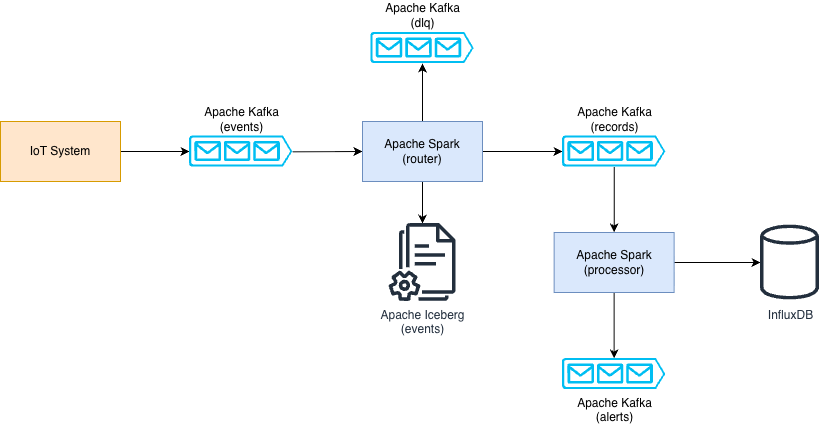
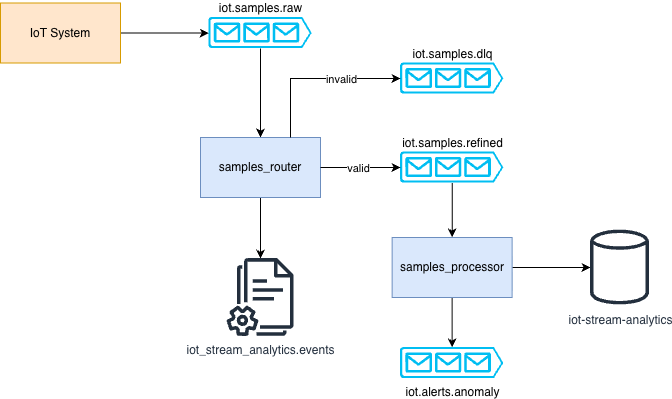
Minor changes

diff --git a/src/iot_stream_analytics/samples_processor.py b/src/iot_stream_analytics/samples_processor.py
@@ -49,7 +49,7 @@ def write_influx_points(partition_it, url, token, org, bucket):
 
             for row in partition_it:
                 point = (
-                    Point("device_telemetry")
+                    Point("device-telemetry")
                     .tag("device_id", row["device_id"])
                     .tag("sensor_id", row["sensor_id"])
                     .field("temperature", float(row["temperature"]))

diff --git a/README.md b/README.md
@@ -9,15 +9,15 @@ To guarantee loose coupling, fault tolerance, and workload isolation, the pipeli
   <figcaption>High-Level Blueprint</figcaption>
 </figure>
 
-### 1. Telemetry Router (router)
-- Consumes raw payloads from the initial Kafka input topic.
+### 1. Samples Router (samples_router)
+- Consumes raw payloads from the initial Kafka input topic (iot.samples.raw).
 - Parses JSON records and enforces schema structure constraints.
 - **Data Cleansing & Validation**: Checks for corrupted JSON or physically impossible telemetry values (e.g., negative temperatures or power ratings).
-- **Dynamic Routing**: Diverts corrupted or invalid messages to a Kafka Dead Letter Queue (DLQ) topic for debugging, while valid data passes to a processed records topic.
-- **Audit Trail**: Appends every incoming event's raw metadata footprint into a daily partitioned **Apache Iceberg lakehouse table**.
+- **Dynamic Routing**: Diverts corrupted or invalid messages to a Kafka Dead Letter Queue (DLQ) topic (iot.samples.dlq) for debugging, while valid data passes to a refined samples topic (iot.samples.refined).
+- **Audit Trail**: Appends every incoming event's raw metadata footprint into a daily partitioned **Apache Iceberg lakehouse table** (iot_stream_analytics.events).
 
-### 2. Telemetry Processor (processor)
-- Consumes validated telemetry text streams from the downstream Kafka records topic.
+### 2. Samples Processor (samples_processor)
+- Consumes validated telemetry streams from the downstream Kafka refined samples topic.
 - Computes metadata observability metrics like **network lag** and **ingestion pipeline latency** in real time.
-- **SLA & Anomaly Monitoring**: Evaluates thresholds inline (>85.0&deg;C or >1500W). If violated, it surfaces immediate alert notifications back out to an asynchronous Kafka alerts queue.
-- **Time-Series Sink**: Micro-batches are partitioned and distributed across workers to perform high-throughput chunked writes (500 points/batch max) into **InfluxDB** for live monitoring dashboards.
+- **SLA & Anomaly Monitoring**: Evaluates thresholds inline (temperature>85.0&deg;C or power>1500W). If violated, it surfaces immediate alert notifications back out to an asynchronous Kafka alerts queue (iot.alerts.anomaly).
+- **Time-Series Sink**: Micro-batches are partitioned and distributed across workers to perform high-throughput chunked writes (500 points/batch max) into an **InfluxDB** bucket (iot-stream-analytics) for live monitoring dashboards.
